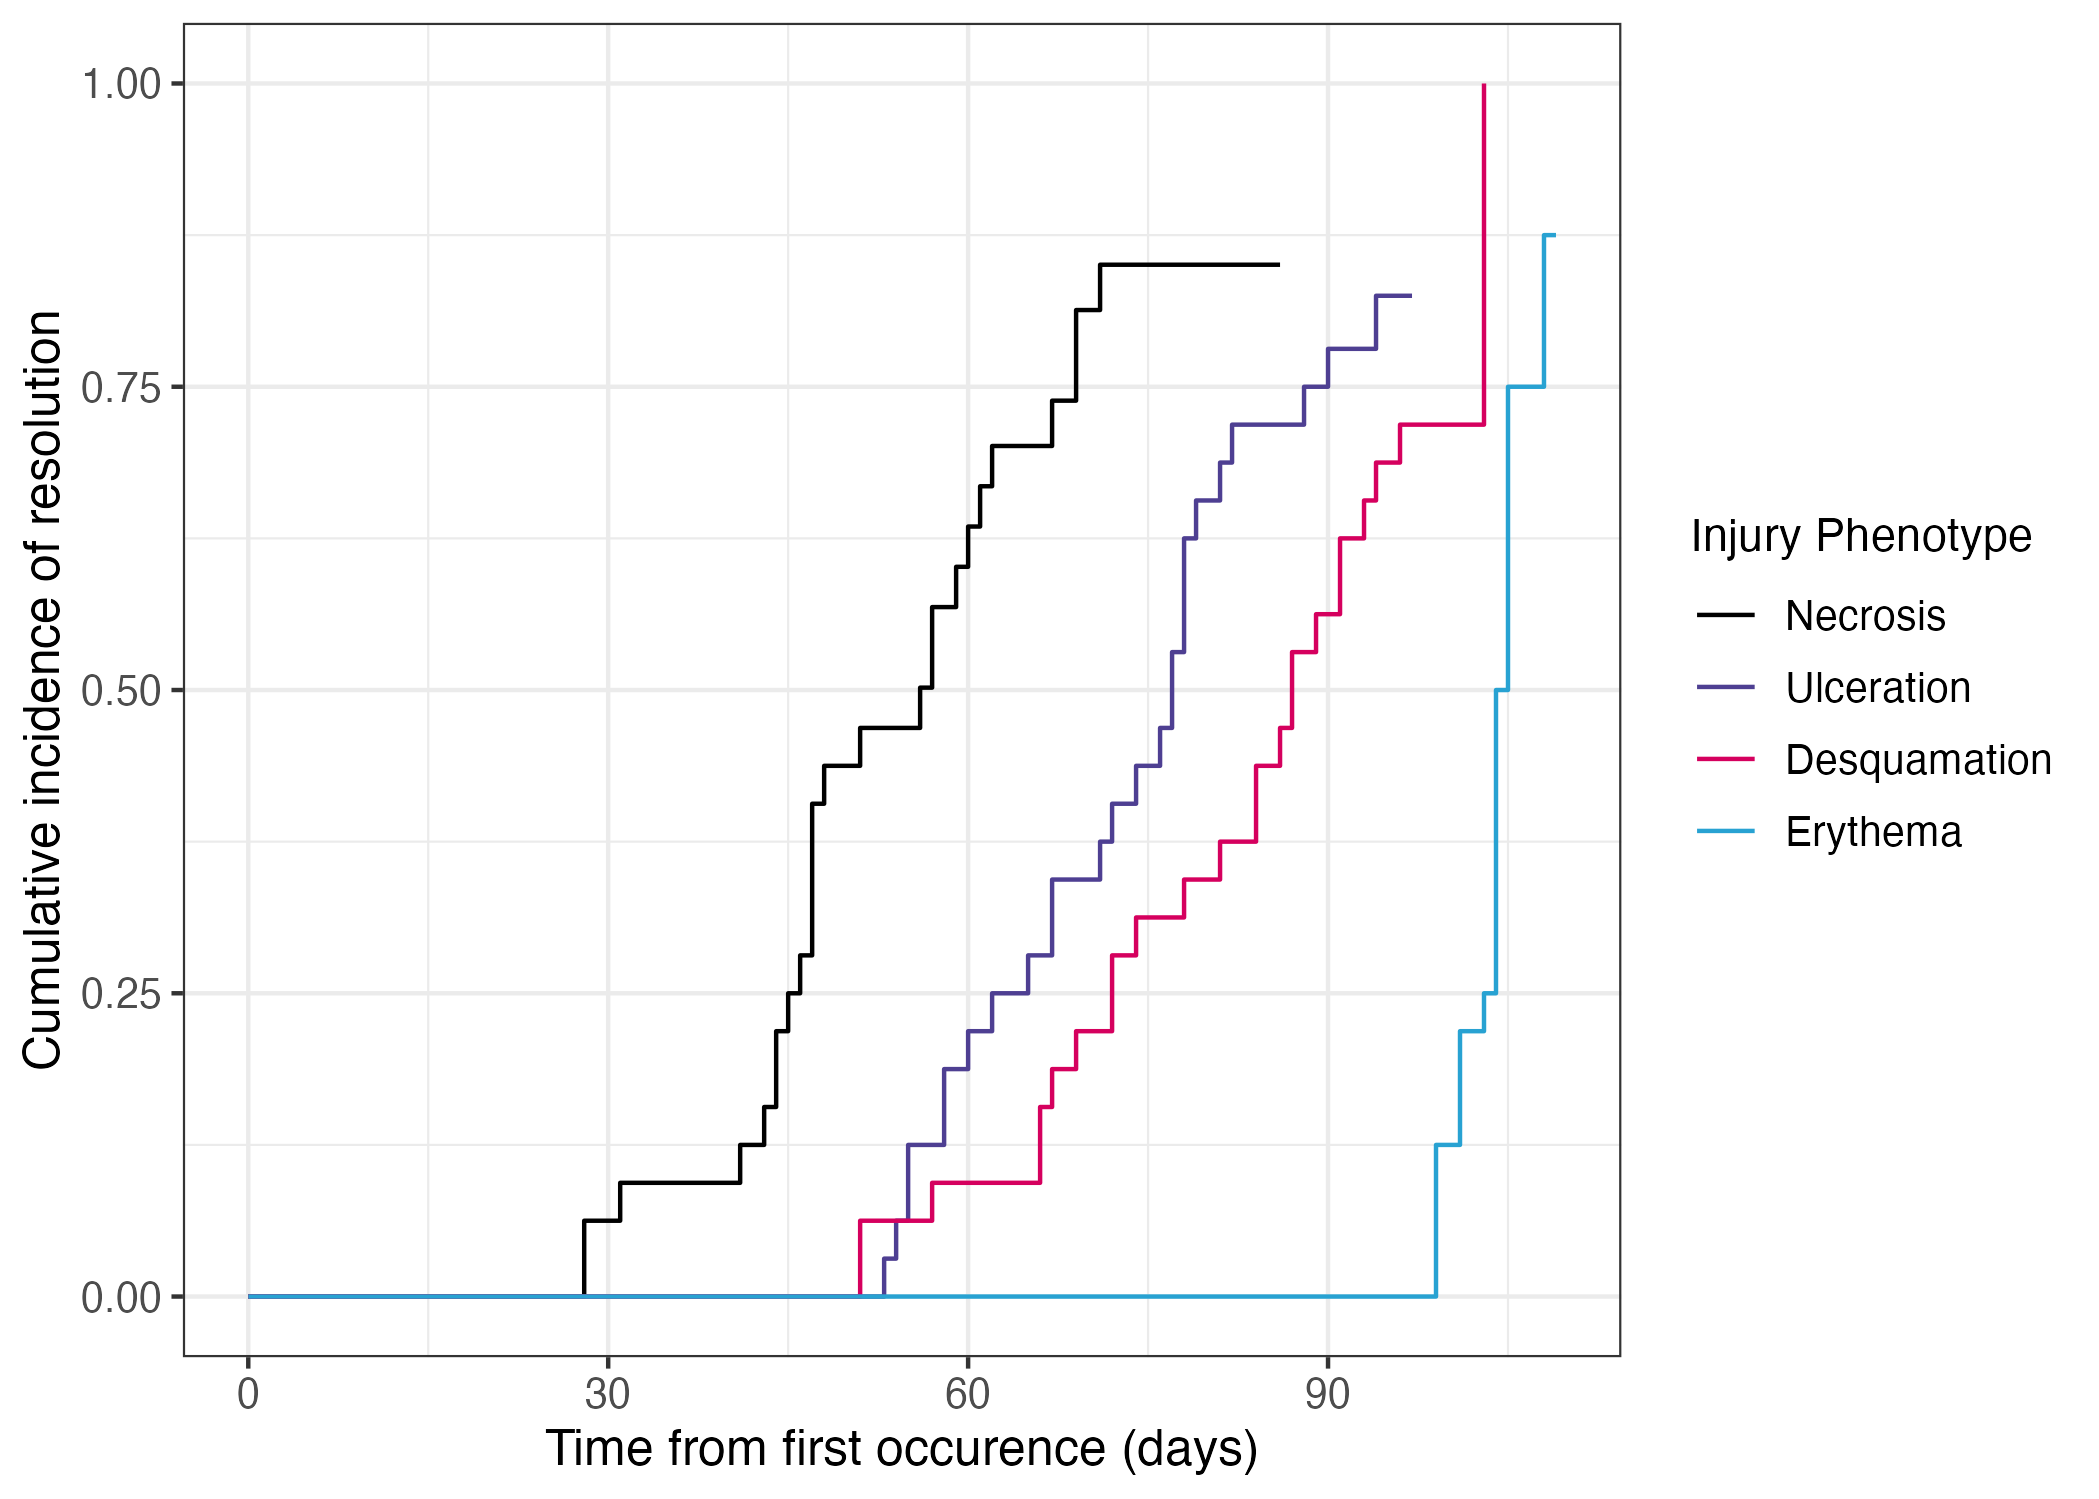
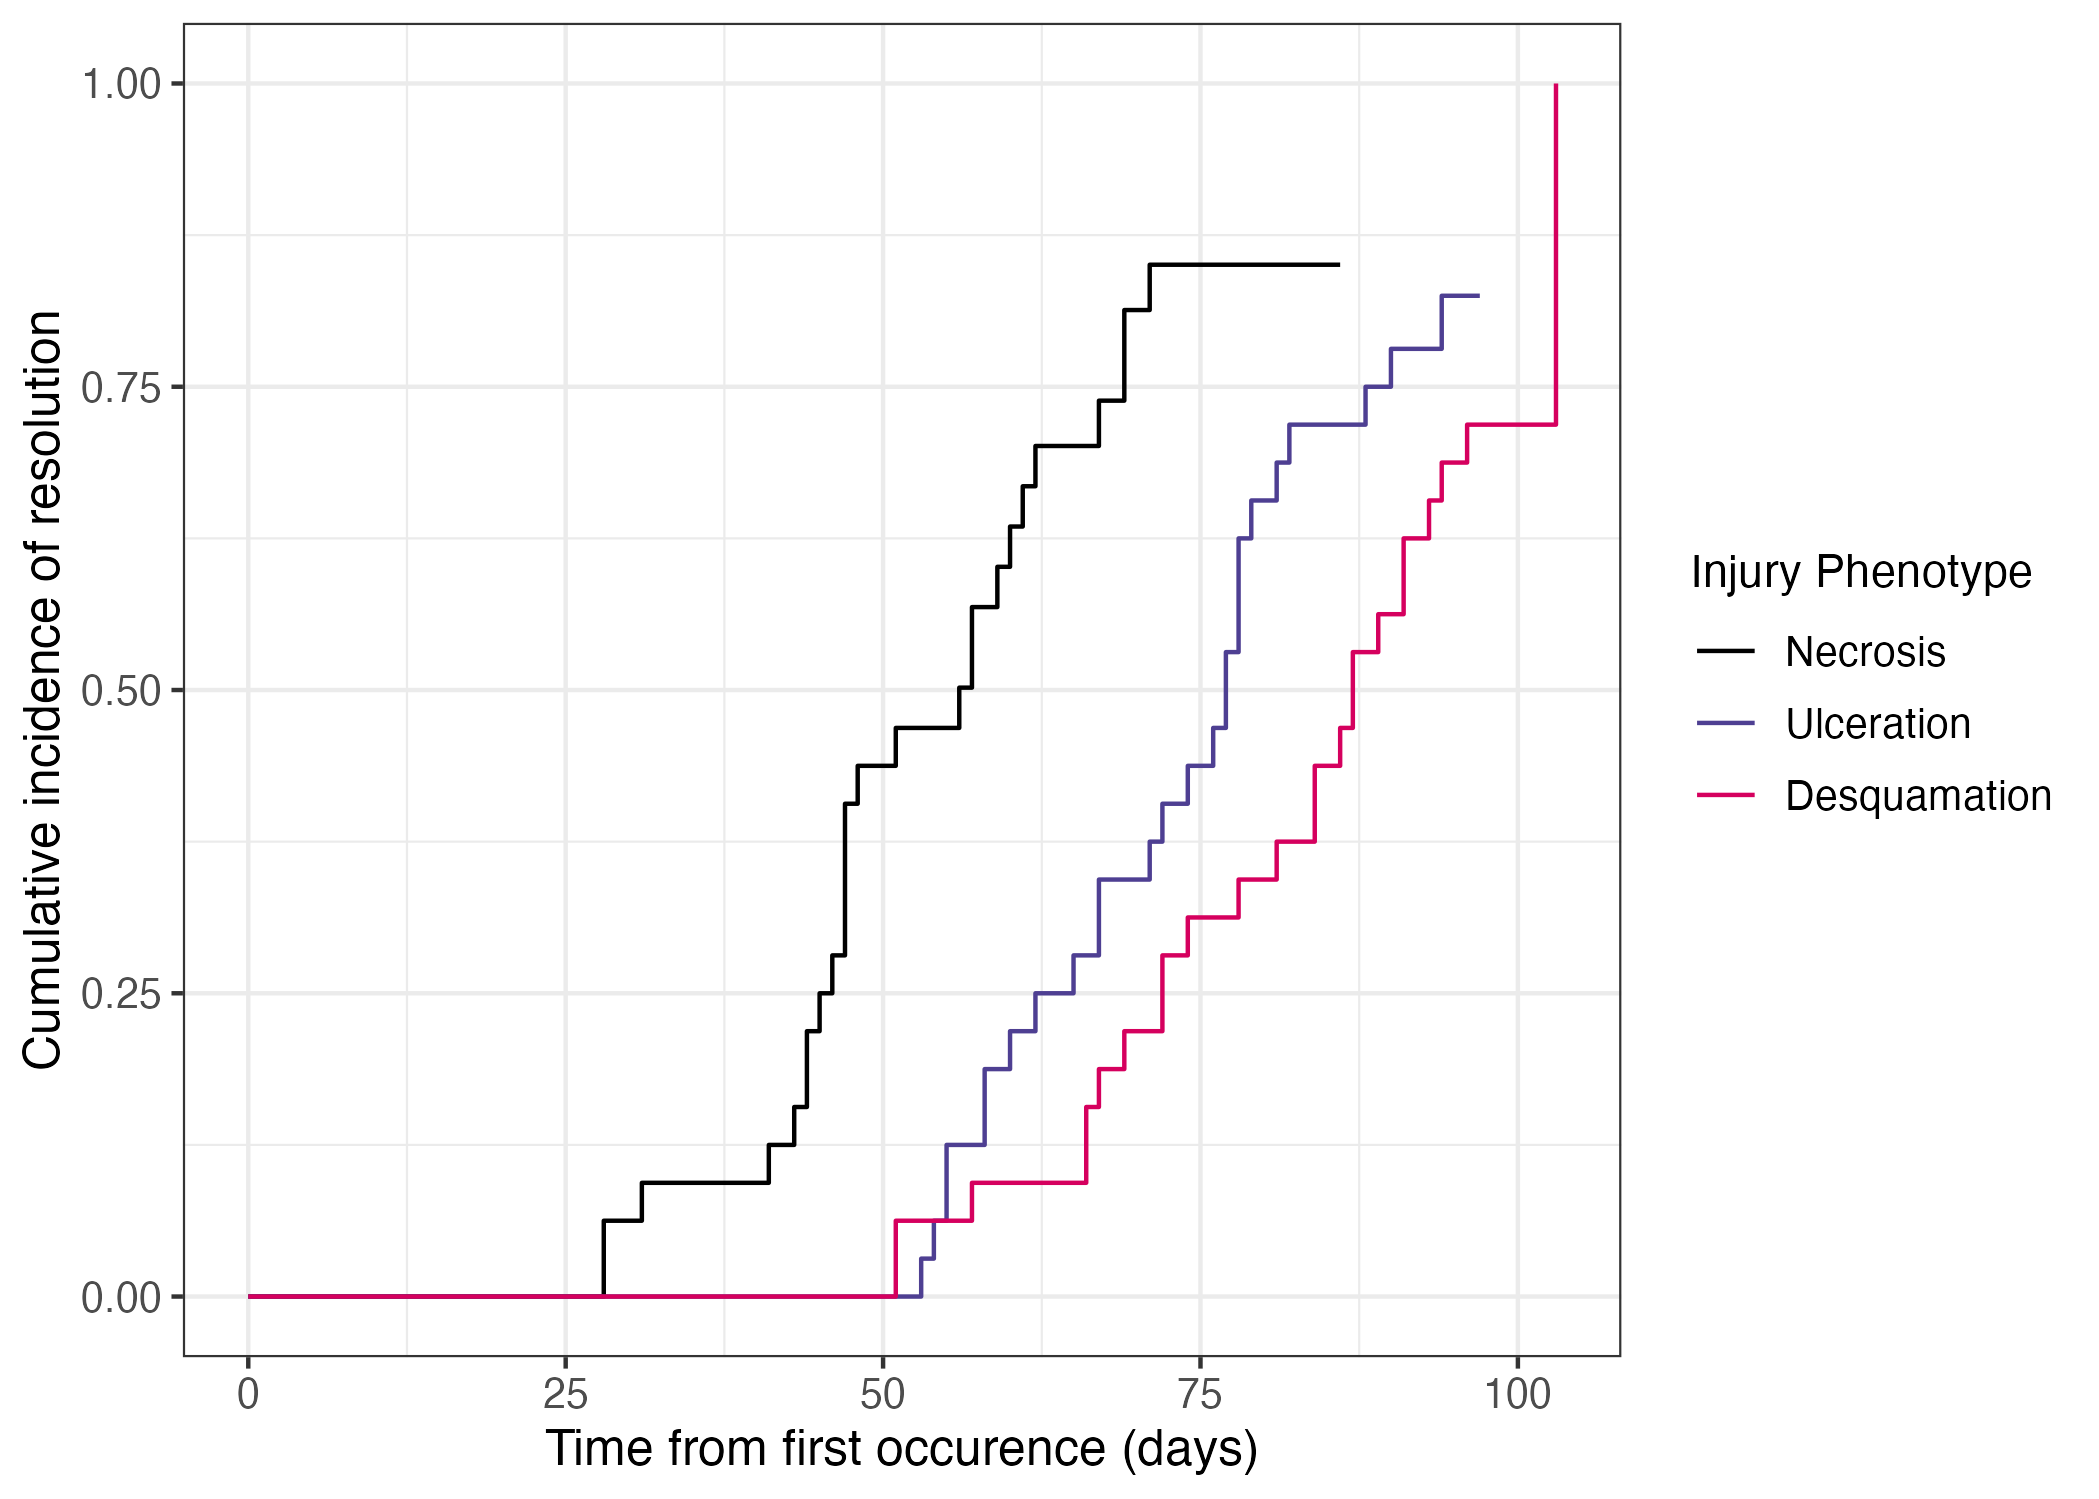
Combined plot without erythema

diff --git a/umb_cri_model_figures.md b/umb_cri_model_figures.md
@@ -181,11 +181,12 @@ phenotype.
 
 ``` r
 three_pheno_km <- df_injury |> 
+  filter(wound_type != "Erythema") |> 
   mutate(days_to_closure = wound_end - wound_start) |> 
   survfit(Surv(days_to_closure, wound_resolved) ~ wound_type, data = _, conf.type = "log-log") |> 
   ggsurvfit(type = "risk") +
   scale_color_manual(values = manual_cb, labels = c("Necrosis", "Ulceration", 
-                                                    "Desquamation", "Erythema")) +
+                                                    "Desquamation")) +
   labs(
     x = "Time from first occurence (days)",
     y = "Cumulative incidence of resolution",
